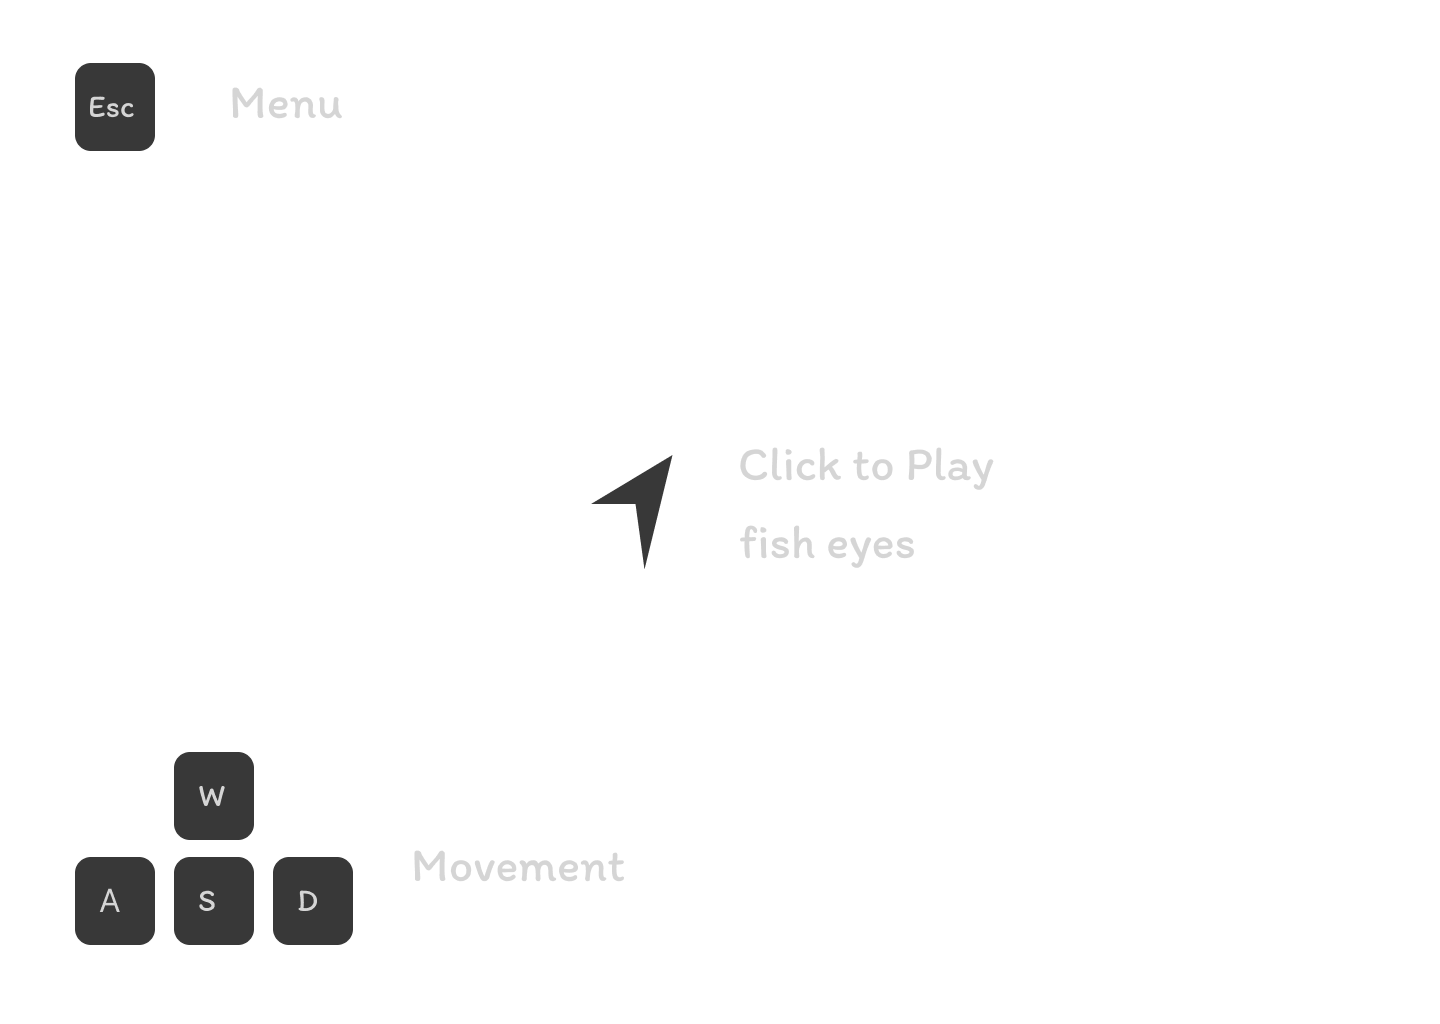
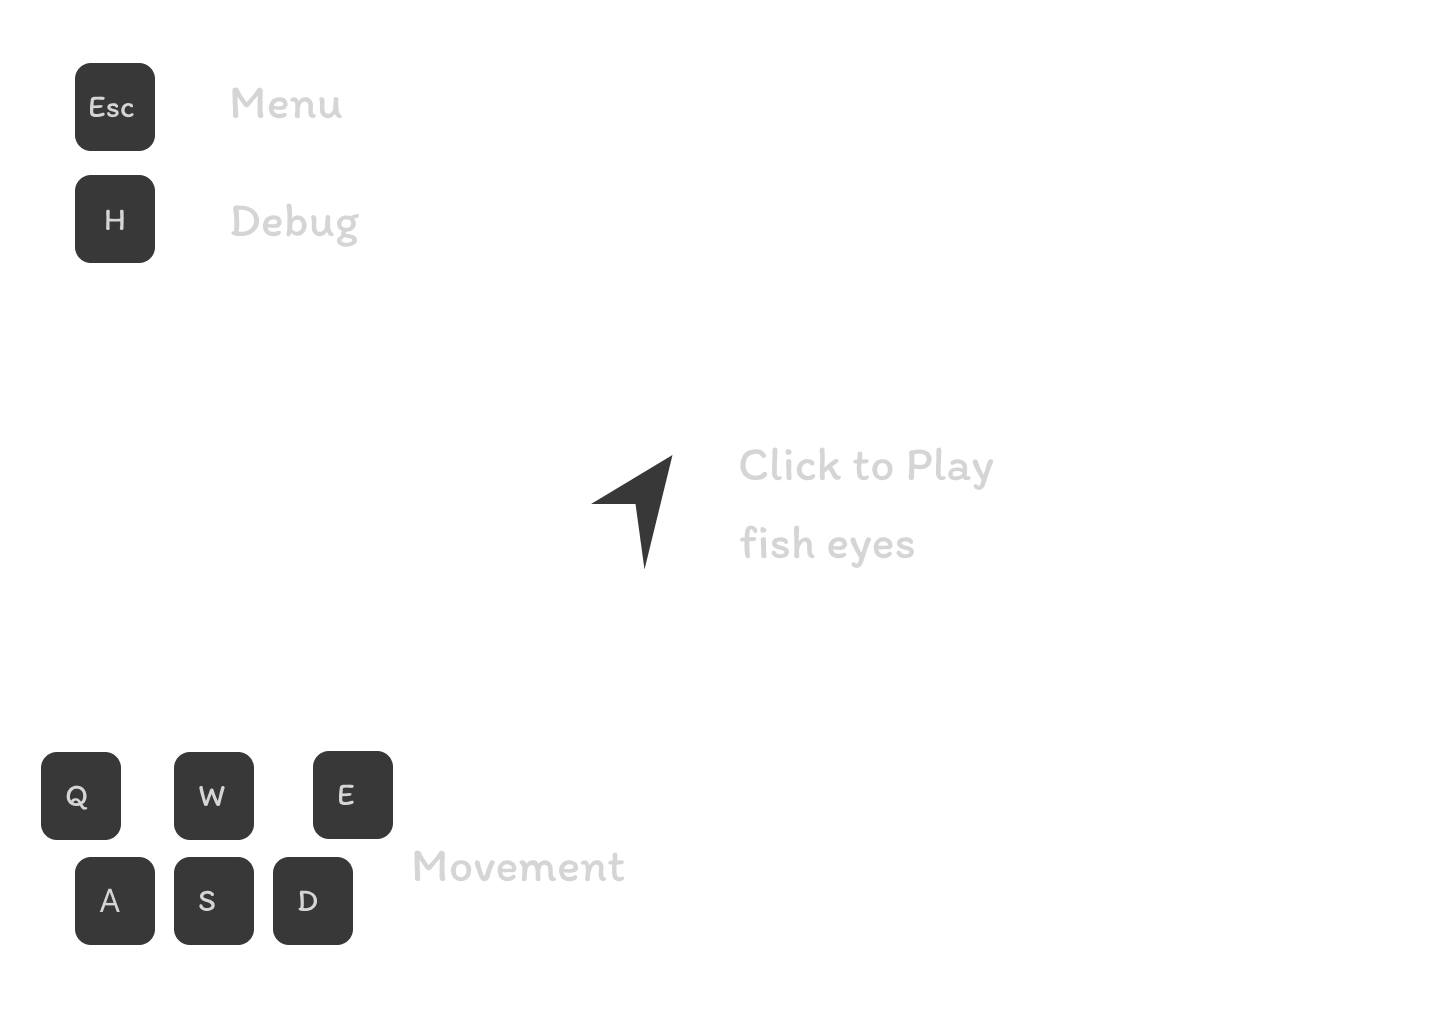
gen: improve menu, add show/hide debug

diff --git a/src/script.js b/src/script.js
@@ -23,7 +23,7 @@ const parameters = {
   },
   galaxy: {
     count: 1500,
-    diameter: 40,
+    diameter: 25,
   },
   scene: {
     fogDensity: 0.2,
@@ -33,6 +33,8 @@ const parameters = {
     fishQ: 30,
   },
 };
+
+gui.hide();
 /**
  *  textures
  */
@@ -41,10 +43,12 @@ glassAlphaMap.repeat = new THREE.Vector2(4, 4);
 glassAlphaMap.wrapS = THREE.RepeatWrapping;
 glassAlphaMap.wrapT = THREE.RepeatWrapping;
 
-const gradientTexture = textureLoader.load("./textures/gradients/5.jpg");
+const gradientTexture = textureLoader.load("./images/3.jpg");
 gradientTexture.minFilter = THREE.NearestFilter;
 gradientTexture.magFilter = THREE.NearestFilter;
 gradientTexture.generateMipmaps = false;
+
+const noiseDisplacement = textureLoader.load("./images/noiseTexture.png");
 /**
  * Listeners
  */
@@ -109,7 +113,6 @@ let fishSwimAnimation = null;
 gltfLoader.load("assets/models/fish.glb", (gltf) => {
   fish = gltf.scene;
   fish.position.random();
-
   // fix rotation
   fish.rotation.y -= Math.PI * 0.5;
   fish.updateMatrixWorld();
@@ -122,7 +125,7 @@ gltfLoader.load("assets/models/fish.glb", (gltf) => {
 
   // create animation
   const moveFish = (fishModel) => {
-    const maxDisplacement = parameters.galaxy.diameter * 0.3;
+    const maxDisplacement = parameters.galaxy.diameter * 0.5;
     const destination = new THREE.Vector3(
       (Math.random() - 0.5) * maxDisplacement,
       (Math.random() - 0.5) * maxDisplacement,
@@ -159,7 +162,7 @@ gltfLoader.load("assets/models/fish.glb", (gltf) => {
     fishModel.scale.set(random, random, random);
     // random start position
     fishModel.position.random();
-    fishModel.position.multiplyScalar(parameters.galaxy.diameter * 0.1);
+    fishModel.position.multiplyScalar(parameters.galaxy.diameter * 0.2);
     // animate
     moveFish(fishModel);
     // add
@@ -253,15 +256,14 @@ const zaqui = new THREE.Group();
 const zaquiColor = "#042C71";
 const head = new THREE.Mesh(
   new THREE.SphereGeometry(4, 36, 36),
-  new THREE.MeshToonMaterial({
-    gradientMap: gradientTexture,
+  new THREE.MeshStandardMaterial({
     color: zaquiColor,
   })
 );
 
 const eye1 = new THREE.Mesh(
   new THREE.CircleGeometry(0.5, 36, 36),
-  new THREE.MeshToonMaterial({ gradientMap: gradientTexture, color: "white" })
+  new THREE.MeshStandardMaterial({ color: "white" })
 );
 
 eye1.position.z = 4;
@@ -271,7 +273,7 @@ eye2.position.x = 1;
 
 const pupil1 = new THREE.Mesh(
   new THREE.CircleGeometry(0.1, 36, 36),
-  new THREE.MeshToonMaterial({ gradientMap: gradientTexture, color: "black" })
+  new THREE.MeshStandardMaterial({ color: "black" })
 );
 pupil1.position.z = 4.01;
 pupil1.position.x = -1;
@@ -281,8 +283,7 @@ pupil2.position.x = 1;
 
 const hand1 = new THREE.Mesh(
   new THREE.CapsuleGeometry(1, 4, 4, 8),
-  new THREE.MeshToonMaterial({
-    gradientMap: gradientTexture,
+  new THREE.MeshStandardMaterial({
     color: zaquiColor,
   })
 );
@@ -296,8 +297,7 @@ hand2.position.x = 8;
 
 const body = new THREE.Mesh(
   new THREE.CapsuleGeometry(2, 6, 4, 8),
-  new THREE.MeshToonMaterial({
-    gradientMap: gradientTexture,
+  new THREE.MeshStandardMaterial({
     color: zaquiColor,
   })
 );
@@ -312,8 +312,7 @@ const walls = new THREE.Group();
 const wallPos = parameters.galaxy.diameter * 0.5 + 0.25;
 const wall1 = new THREE.Mesh(
   new THREE.PlaneGeometry(wallPos * 2, wallPos * 5),
-  new THREE.MeshToonMaterial({
-    gradientMap: gradientTexture,
+  new THREE.MeshStandardMaterial({
     alphaMap: glassAlphaMap,
     transparent: true,
   })
@@ -334,6 +333,20 @@ wall4.position.x = -wallPos;
 
 walls.add(wall1, wall2, wall3, wall4);
 scene.add(walls);
+
+// corals
+
+const corals = new THREE.Mesh(
+  new THREE.PlaneGeometry(wallPos * 2, wallPos * 2, 48, 48),
+  new THREE.MeshStandardMaterial({
+    color: "black",
+    displacementMap: noiseDisplacement,
+    displacementScale: 6,
+  })
+);
+corals.rotation.x = -Math.PI * 0.5;
+corals.position.y = -wallPos;
+scene.add(corals);
 // cube of example
 /* const cube = new THREE.Mesh(
   new THREE.BoxGeometry(1, 1, 1),
@@ -344,8 +357,8 @@ scene.add(cube); */
 /**
  * Lights
  */
-/* const ambientLight = new THREE.AmbientLight("#545454", 1);
-scene.add(ambientLight); */
+const ambientLight = new THREE.AmbientLight("#545454", 1);
+scene.add(ambientLight);
 /**
  * canvas
  */
@@ -427,6 +440,9 @@ window.addEventListener("keydown", (key) => {
       // hide menu
       menuImg.style.display = "block";
       break;
+    case "KeyH":
+      gui._hidden ? gui.show() : gui.hide();
+      break;
   }
 });
 
@@ -503,10 +519,10 @@ const tick = () => {
   }
   // limit distance from origin
   if (
-    control.getObject().position.length() >=
+    control.object.position.length() >=
     parameters.galaxy.diameter * 0.5
   ) {
-    control.getObject().position.setLength(parameters.galaxy.diameter * 0.5);
+    control.object.position.setLength(parameters.galaxy.diameter * 0.5);
   }
   // render
   renderer.render(scene, camera);
